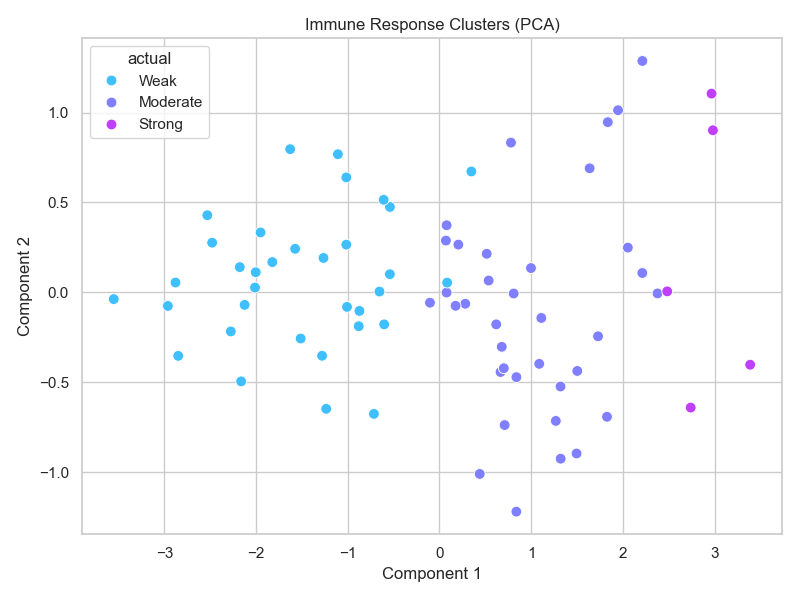
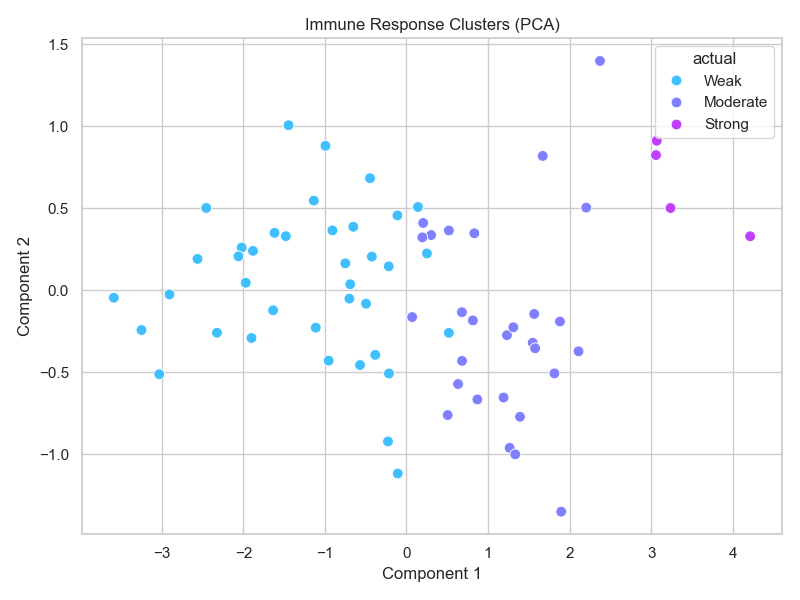
added machine learnin modell

diff --git a/app.py b/app.py
@@ -1,0 +1,127 @@
+import streamlit as st
+import pandas as pd
+import seaborn as sns
+import matplotlib.pyplot as plt
+from sklearn.decomposition import PCA
+from sklearn.preprocessing import StandardScaler
+
+# Page Setup
+st.set_page_config(layout="wide")
+st.title("🧬 Immune Simulation Tech Dashboard")
+st.markdown("Explore synthetic population, experiments, and ML predictions with interactive charts.")
+
+# Load all datasets
+@st.cache_data
+def load_data():
+    try:
+        synthetic = pd.read_csv("data/synthetic_population.csv")
+        experiment = pd.read_csv("data/experiment_results.csv")
+        model = pd.read_csv("data/model_predictions.csv")
+        return synthetic, experiment, model
+    except Exception as e:
+        st.error(f"⚠ Error loading datasets: {e}")
+        return None, None, None
+
+synthetic_df, exp_df, pred_df = load_data()
+
+# Tabs for navigation
+tabs = st.tabs(["📋 Synthetic Population", "🧪 Experiments", "🤖 Model Predictions"])
+
+# --- 📋 Tab 1: Synthetic Population ---
+# --- 📋 Tab 1: Synthetic Population ---
+with tabs[0]:
+    st.header("📋 Synthetic Population Overview")
+
+    if synthetic_df is not None:
+        # Sidebar filters
+        with st.sidebar:
+            st.subheader("🧠 Population Filters")
+            selected_condition = st.selectbox("Medical History", ["All"] + synthetic_df["medical_history"].unique().tolist())
+            st.markdown("---")
+            st.subheader("👤 View Individual Profile")
+            selected_user = st.selectbox("Select User", synthetic_df["full_name"].tolist())
+
+        # Filter by medical condition
+        filtered = synthetic_df.copy()
+        if selected_condition != "All":
+            filtered = filtered[filtered["medical_history"] == selected_condition]
+
+        st.markdown("### 🧬 Immune Strength Distribution")
+        fig, ax = plt.subplots()
+        sns.histplot(filtered["immune_baseline"], kde=True, ax=ax)
+        st.pyplot(fig)
+
+        st.markdown("### 📄 Synthetic Population Data")
+        st.dataframe(filtered)
+
+        # User Profile Display
+        st.markdown("---")
+        st.markdown("### 🧑🔬 Selected User Profile")
+
+        user = synthetic_df[synthetic_df["full_name"] == selected_user].iloc[0]
+        col1, col2 = st.columns([1, 3])
+
+        with col1:
+            st.image(user["image_url"], caption=user["full_name"], width=160)
+
+        with col2:
+            st.markdown(f"""
+                **Full Name:** {user['full_name']}  
+                **Age:** {user['age']}  
+                **Sex:** {user['sex'].capitalize()}  
+                **Location:** {user['location']}  
+                **Medical History:** {user['medical_history']}  
+                **Immune Baseline:** {user['immune_baseline']}  
+                **Email:** {user['email']}
+            """)
+
+    else:
+        st.warning("Synthetic data not available.")
+
+# --- 🧪 Tab 2: Experiments ---
+with tabs[1]:
+    st.header("🧪 Immune Treatment Experiments")
+
+    if exp_df is not None:
+        with st.sidebar:
+            st.subheader("🔍 Experiment Filters")
+            treatments = st.multiselect("Treatment", exp_df['treatment'].unique(), default=exp_df['treatment'].unique())
+            outcomes = st.multiselect("Outcome", exp_df['outcome'].unique(), default=exp_df['outcome'].unique())
+
+        filtered_exp = exp_df[(exp_df['treatment'].isin(treatments)) & (exp_df['outcome'].isin(outcomes))]
+
+        st.markdown("### 📊 Outcome by Treatment")
+        fig1, ax1 = plt.subplots(figsize=(10, 4))
+        sns.countplot(data=filtered_exp, x="treatment", hue="outcome", palette="Set2", ax=ax1)
+        st.pyplot(fig1)
+
+        st.markdown("### 📄 Data Table")
+        st.dataframe(filtered_exp)
+    else:
+        st.warning("Experiment results not available.")
+
+# --- 🤖 Tab 3: ML Model Predictions ---
+with tabs[2]:
+    st.header("🤖 ML Model: Actual vs Predicted")
+
+    if pred_df is not None:
+        st.markdown("### 🎯 Accuracy Comparison")
+        fig2, ax2 = plt.subplots(figsize=(8, 4))
+        sns.countplot(data=pred_df, x="actual", hue="predicted", palette="muted", ax=ax2)
+        st.pyplot(fig2)
+
+        st.markdown("### 🧠 PCA Clustering of Immune Profiles")
+        features = pred_df.select_dtypes(include="number").drop(columns=["actual", "predicted"], errors="ignore")
+        scaled = StandardScaler().fit_transform(features)
+        pca = PCA(n_components=2).fit_transform(scaled)
+        pca_df = pd.DataFrame(pca, columns=["PC1", "PC2"])
+        pca_df["actual"] = pred_df["actual"].values
+
+        fig3, ax3 = plt.subplots(figsize=(8, 4))
+        sns.scatterplot(data=pca_df, x="PC1", y="PC2", hue="actual", palette="cool", ax=ax3)
+        st.pyplot(fig3)
+
+        st.markdown("### 🧾 Prediction Data")
+        st.dataframe(pred_df.head(100))
+    else:
+        st.warning("Model prediction data not available.")

diff --git a/README.md b/README.md
@@ -193,3 +193,45 @@ Helps identify patterns or subgroups in the population based on immune responses
 
 The plots was auto-generated when run below:
 python -m src.main --experiment --train-model --visualize
+
+
+
+Snippet for Multi-Tab Dashboard
+Immune Simulation Dashboard
+
+This interactive Streamlit dashboard provides an advanced biotech data visualization experience, splitting key datasets across intuitive tabs
+
+Synthetic Population:
+View detailed synthetic profiles generated using public APIs.
+
+Filter population by medical history.
+
+Visualize immune baseline strength distribution.
+
+Includes demographics, health conditions, and immune response indicators.
+
+
+
+ Immune Treatment Experiments
+Explore experiment results with varied treatments.
+
+Filter by treatment types and immune response outcomes.
+
+Visualize treatment effectiveness via outcome distribution charts.
+
+View full experimental dataset in an interactive table.
+
+
+
+Machine Learning Model Predictions
+Analyze ML model performance: Actual vs Predicted immune outcomes.
+
+Visualize immune profile clusters with PCA dimensionality reduction.
+
+Interactive charts demonstrate classification accuracy and model insights.
+
+Includes raw model prediction data for further exploration.
+
+
+How to run it below
+streamlit run app.py
